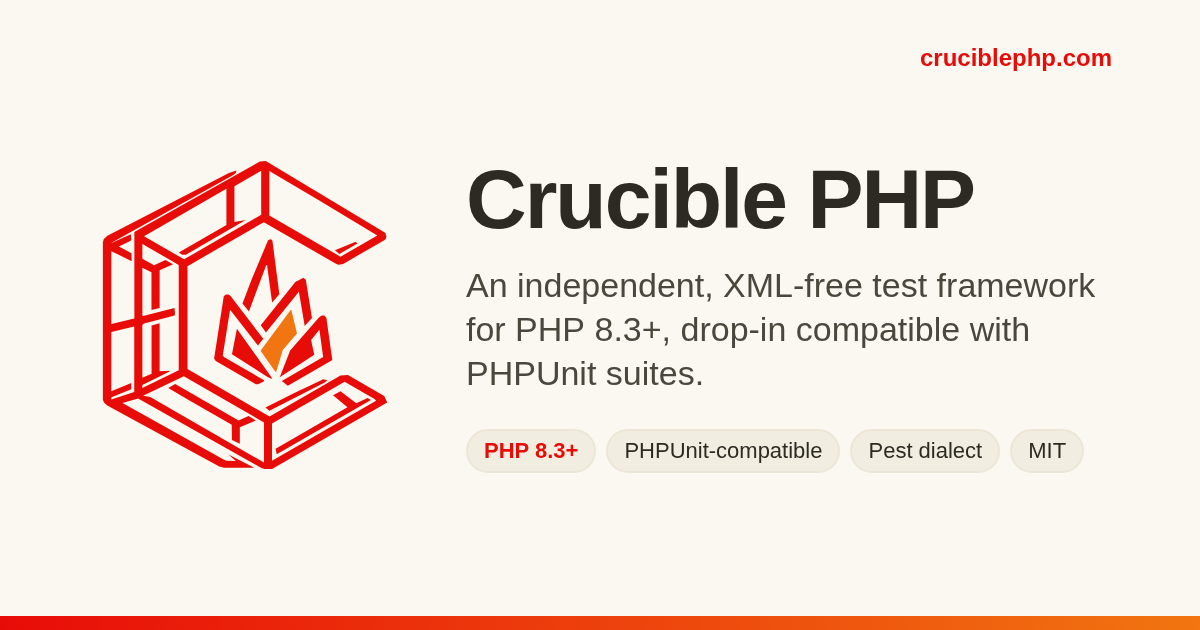
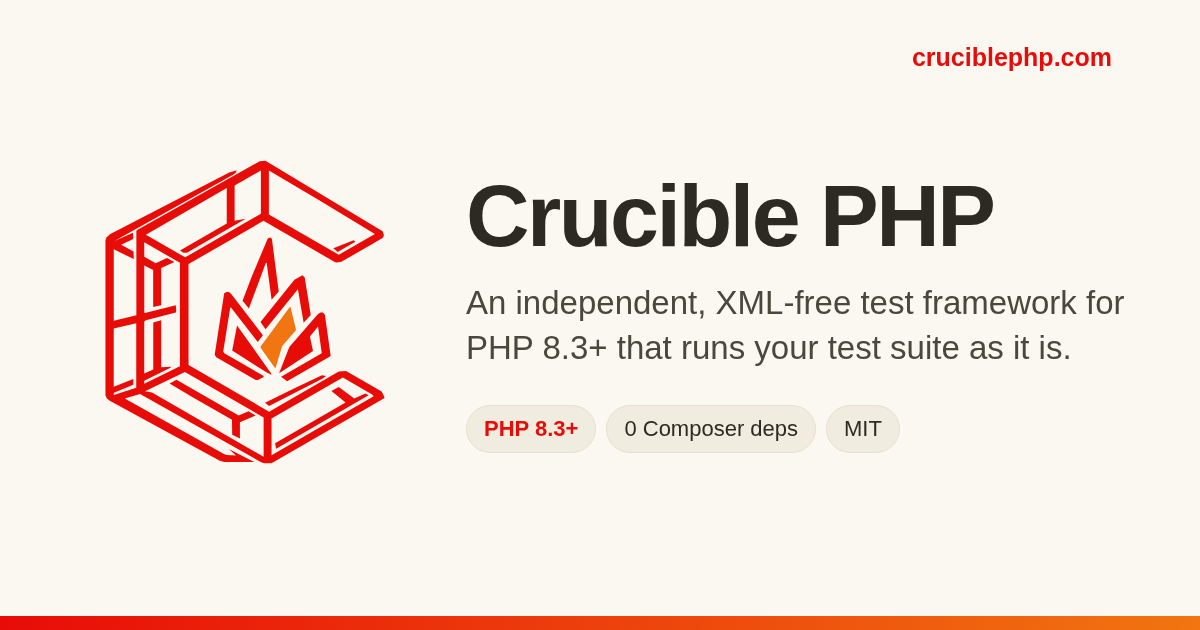
updated content

diff --git a/index.html b/index.html
@@ -30,27 +30,27 @@ try {
 } catch (e) {}
 </script>
 <meta name="color-scheme" content="light dark" />
-<title>Crucible PHP — PHPUnit-compatible test framework for PHP 8.3+</title>
+<title>Crucible PHP — test framework for PHP 8.3+</title>
 <meta name="author" content="Luciano Federico Pereira" />
-<meta name="description" content="Independent PHP 8.3+ test framework that runs PHPUnit and Pest suites unchanged: typed PHP config instead of XML, parallel runs, coverage and mutation testing." />
+<meta name="description" content="Independent PHP 8.3+ test framework that runs your test suite unchanged — Pest files and PHPUnit classes in one run — with typed PHP config instead of XML, parallel runs, coverage and mutation testing." />
 <link rel="canonical" href="https://www.cruciblephp.com/" />
 <meta name="robots" content="index, follow" />
 <meta property="og:type" content="website" />
 <meta property="og:site_name" content="Crucible PHP" />
 <meta property="og:locale" content="en_US" />
 <meta property="og:url" content="https://www.cruciblephp.com/" />
-<meta property="og:title" content="Crucible PHP — PHPUnit-compatible test framework for PHP 8.3+" />
-<meta property="og:description" content="Runs PHPUnit and Pest suites unchanged, with typed PHP config instead of XML, parallel runs, coverage and mutation testing." />
+<meta property="og:title" content="Crucible PHP — test framework for PHP 8.3+" />
+<meta property="og:description" content="Runs your test suite unchanged — Pest files and PHPUnit classes in one run — with typed PHP config instead of XML, parallel runs, coverage and mutation testing." />
 <meta property="og:image" content="https://www.cruciblephp.com/assets/og-image.png" />
 <meta property="og:image:type" content="image/png" />
 <meta property="og:image:width" content="1200" />
 <meta property="og:image:height" content="630" />
-<meta property="og:image:alt" content="Crucible PHP: an independent, XML-free test framework for PHP 8.3+, drop-in compatible with PHPUnit suites." />
+<meta property="og:image:alt" content="Crucible PHP: an independent, XML-free test framework for PHP 8.3+ that runs your test suite as it is." />
 <meta name="twitter:card" content="summary_large_image" />
 <meta name="twitter:image" content="https://www.cruciblephp.com/assets/og-image.png" />
-<meta name="twitter:image:alt" content="Crucible PHP: an independent, XML-free test framework for PHP 8.3+, drop-in compatible with PHPUnit suites." />
-<meta name="twitter:title" content="Crucible PHP — PHPUnit-compatible test framework for PHP 8.3+" />
-<meta name="twitter:description" content="Runs PHPUnit and Pest suites unchanged, with typed PHP config instead of XML, parallel runs, coverage and mutation testing." />
+<meta name="twitter:image:alt" content="Crucible PHP: an independent, XML-free test framework for PHP 8.3+ that runs your test suite as it is." />
+<meta name="twitter:title" content="Crucible PHP — test framework for PHP 8.3+" />
+<meta name="twitter:description" content="Runs your test suite unchanged — Pest files and PHPUnit classes in one run — with typed PHP config instead of XML, parallel runs, coverage and mutation testing." />
 <!-- What search engines read as the software itself: its name, category,
      requirement, price and where to get it. Kept to facts that do not
      change per release, so it never states a stale version. -->
@@ -62,7 +62,7 @@ try {
   "alternateName": "Crucible",
   "url": "https://www.cruciblephp.com/",
   "image": "https://www.cruciblephp.com/assets/og-image.png",
-  "description": "An independent test framework for PHP 8.3+ that runs PHPUnit and Pest suites unchanged, configured in typed PHP instead of XML.",
+  "description": "An independent test framework for PHP 8.3+ that runs your test suite unchanged — Pest files and PHPUnit classes in one run — configured in typed PHP instead of XML.",
   "applicationCategory": "DeveloperApplication",
   "applicationSubCategory": "Test framework",
   "operatingSystem": "Linux, macOS, Windows",
@@ -329,8 +329,8 @@ try {
       <a class="link" href="#faq">FAQ</a>
       <div class="links-external">
         <a class="link link--external i18n" href="docs.html"><span data-i18n-default>Docs</span><span data-locale="es" class="notranslate">Documentación</span><span data-locale="it" class="notranslate">Documentazione</span><svg class="link-external-icon" aria-hidden="true"><use href="#icon-external"/></svg></a>
-        <a class="link link--external i18n" href="changelog.html"><span data-i18n-default>Changelog</span><span data-locale="es" class="notranslate">Cambios</span><span data-locale="it" class="notranslate">Modifiche</span><svg class="link-external-icon" aria-hidden="true"><use href="#icon-external"/></svg></a>
-        <a class="link link--external i18n" href="reports/latest/index.html"><span data-i18n-default>Reports</span><span data-locale="es" class="notranslate">Informes</span><span data-locale="it" class="notranslate">Report</span><svg class="link-external-icon" aria-hidden="true"><use href="#icon-external"/></svg></a>
+        <a class="link link--external link--menu-only i18n" href="changelog.html"><span data-i18n-default>Changelog</span><span data-locale="es" class="notranslate">Cambios</span><span data-locale="it" class="notranslate">Modifiche</span><svg class="link-external-icon" aria-hidden="true"><use href="#icon-external"/></svg></a>
+        <a class="link link--external link--menu-only i18n" href="reports/latest/index.html"><span data-i18n-default>Reports</span><span data-locale="es" class="notranslate">Informes</span><span data-locale="it" class="notranslate">Report</span><svg class="link-external-icon" aria-hidden="true"><use href="#icon-external"/></svg></a>
         <a class="link link--external notranslate" href="https://github.com/cruciblephp/crucible" target="_blank" rel="noopener">GitHub<svg class="link-external-icon" aria-hidden="true"><use href="#icon-external"/></svg></a>
       </div>
     </div>
@@ -388,17 +388,16 @@ try {
         <div class="logo"><svg class="logo-mark" aria-hidden="true"><use href="#icon-crucible"/></svg></div>
         <h1 class="notranslate">Crucible PHP</h1>
         <p class="tagline i18n">
-          <span data-i18n-default>An independent, XML-free test framework for PHP 8.3+ — drop-in compatible
-          with PHPUnit suites, engineered like the best runners of other ecosystems.</span>
-          <span data-locale="es" class="notranslate">Un framework de pruebas independiente y sin XML para PHP 8.3+ — compatible
-          sin cambios con suites de PHPUnit, diseñado como los mejores runners de otros ecosistemas.</span>
-          <span data-locale="it" class="notranslate">Un framework di test indipendente e senza XML per PHP 8.3+ — compatibile
-          senza modifiche con le suite PHPUnit, progettato come i migliori runner di altri ecosistemi.</span>
+          <span data-i18n-default>An independent, XML-free test framework for PHP 8.3+ — runs your test suite
+          as it is, engineered like the best runners of other ecosystems.</span>
+          <span data-locale="es" class="notranslate">Un framework de pruebas independiente y sin XML para PHP 8.3+ — ejecuta tu suite
+          de pruebas tal como está, diseñado como los mejores runners de otros ecosistemas.</span>
+          <span data-locale="it" class="notranslate">Un framework di test indipendente e senza XML per PHP 8.3+ — esegue la tua suite
+          di test così com'è, progettato come i migliori runner di altri ecosistemi.</span>
         </p>
         <div class="badges notranslate">
           <span class="badge">PHP 8.3+</span>
           <span class="badge">0 Composer deps</span>
-          <span class="badge">PHPUnit-compatible</span>
           <span class="badge">code: MIT</span>
         </div>
         <div class="cta">
@@ -420,7 +419,7 @@ try {
 <section id="compare">
   <div class="wrap">
     <div class="eyebrow reveal i18n"><span data-i18n-default>Drop-in</span><span data-locale="es" class="notranslate">Reemplazo directo</span><span data-locale="it" class="notranslate">Sostituto diretto</span></div>
-    <h2 class="reveal i18n"><span data-i18n-default>Your PHPUnit suite, unchanged</span><span data-locale="es" class="notranslate">Tu suite de PHPUnit, sin cambios</span><span data-locale="it" class="notranslate">La tua suite PHPUnit, senza modifiche</span></h2>
+    <h2 class="reveal i18n"><span data-i18n-default>Your test suite, unchanged</span><span data-locale="es" class="notranslate">Tu suite de pruebas, sin cambios</span><span data-locale="it" class="notranslate">La tua suite di test, senza modifiche</span></h2>
     <p class="section-lead reveal i18n">
       <span data-i18n-default>A real Laravel 13 application runs green — factories, <code class="inline">RefreshDatabase</code>,
       Laravel's own constraints, mocks, <code class="inline">--parallel</code> — with the
@@ -574,22 +573,6 @@ OK</pre>
 
     <div class="variant reveal">
       <div class="head">
-        <span class="name notranslate">PHPUnit</span>
-        <span class="desc i18n"><span data-i18n-default>The drop-in one — a suite written for PHPUnit runs unchanged</span><span data-locale="es" class="notranslate">El de reemplazo directo — una suite escrita para PHPUnit se ejecuta sin cambios</span><span data-locale="it" class="notranslate">Quello diretto — una suite scritta per PHPUnit gira senza modifiche</span></span>
-      </div>
-      <div class="body">
-<pre class="notranslate">final class CalculatorTest extends TestCase
-{
-    public function testAddsTwoNumbers(): void
-    {
-        $this-&gt;assertSame(4, 2 + 2);
-    }
-}</pre>
-      </div>
-    </div>
-
-    <div class="variant reveal">
-      <div class="head">
         <span class="name notranslate">Pest</span>
         <span class="desc i18n"><span data-i18n-default>The expressive one — <code class="inline">*.pest.php</code> files run natively</span><span data-locale="es" class="notranslate">El expresivo — los archivos <code class="inline">*.pest.php</code> se ejecutan de forma nativa</span><span data-locale="it" class="notranslate">Quello espressivo — i file <code class="inline">*.pest.php</code> girano in modo nativo</span></span>
       </div>
@@ -607,6 +590,22 @@ describe('expectations', function (): void {
         expect('crucible')-&gt;toBeString()-&gt;toHaveLength(8)-&gt;toStartWith('cru');
     });
 });</pre>
+      </div>
+    </div>
+
+    <div class="variant reveal">
+      <div class="head">
+        <span class="name notranslate">PHPUnit</span>
+        <span class="desc i18n"><span data-i18n-default>The classic one — test classes written for PHPUnit run unchanged</span><span data-locale="es" class="notranslate">El clásico — las clases de prueba escritas para PHPUnit se ejecutan sin cambios</span><span data-locale="it" class="notranslate">Quello classico — le classi di test scritte per PHPUnit girano senza modifiche</span></span>
+      </div>
+      <div class="body">
+<pre class="notranslate">final class CalculatorTest extends TestCase
+{
+    public function testAddsTwoNumbers(): void
+    {
+        $this-&gt;assertSame(4, 2 + 2);
+    }
+}</pre>
       </div>
     </div>
 
@@ -631,12 +630,12 @@ describe('expectations', function (): void {
     <div class="carousel-viewport reveal">
       <div class="carousel" id="use-case-carousel" role="region" aria-label="Use cases, scrollable" tabindex="0">
         <div class="carousel-card">
-          <div class="cc-eyebrow i18n"><span data-i18n-default>Laravel applications</span><span data-locale="es" class="notranslate">Aplicaciones Laravel</span><span data-locale="it" class="notranslate">Applicazioni Laravel</span></div>
-          <p class="i18n"><span data-i18n-default>Factories, <code class="inline">RefreshDatabase</code>, mocks and <code class="inline">--parallel</code>, green on a real Laravel 13 app.</span><span data-locale="es" class="notranslate">Factories, <code class="inline">RefreshDatabase</code>, mocks y <code class="inline">--parallel</code>, en verde sobre una app Laravel 13 real.</span><span data-locale="it" class="notranslate">Factory, <code class="inline">RefreshDatabase</code>, mock e <code class="inline">--parallel</code>, in verde su una vera app Laravel 13.</span></p>
-        </div>
-        <div class="carousel-card">
           <div class="cc-eyebrow i18n"><span data-i18n-default>Pest projects</span><span data-locale="es" class="notranslate">Proyectos Pest</span><span data-locale="it" class="notranslate">Progetti Pest</span></div>
           <p class="i18n"><span data-i18n-default><code class="inline">*.pest.php</code> runs natively, beside PHPUnit classes in the same run.</span><span data-locale="es" class="notranslate"><code class="inline">*.pest.php</code> se ejecuta de forma nativa, junto a clases de PHPUnit en la misma ejecución.</span><span data-locale="it" class="notranslate"><code class="inline">*.pest.php</code> gira in modo nativo, accanto alle classi PHPUnit nella stessa esecuzione.</span></p>
+        </div>
+        <div class="carousel-card">
+          <div class="cc-eyebrow i18n"><span data-i18n-default>Laravel applications</span><span data-locale="es" class="notranslate">Aplicaciones Laravel</span><span data-locale="it" class="notranslate">Applicazioni Laravel</span></div>
+          <p class="i18n"><span data-i18n-default>Factories, <code class="inline">RefreshDatabase</code>, mocks and <code class="inline">--parallel</code>, green on a real Laravel 13 app.</span><span data-locale="es" class="notranslate">Factories, <code class="inline">RefreshDatabase</code>, mocks y <code class="inline">--parallel</code>, en verde sobre una app Laravel 13 real.</span><span data-locale="it" class="notranslate">Factory, <code class="inline">RefreshDatabase</code>, mock e <code class="inline">--parallel</code>, in verde su una vera app Laravel 13.</span></p>
         </div>
         <div class="carousel-card">
           <div class="cc-eyebrow i18n"><span data-i18n-default>PHP and JavaScript</span><span data-locale="es" class="notranslate">PHP y JavaScript</span><span data-locale="it" class="notranslate">PHP e JavaScript</span></div>
@@ -669,7 +668,7 @@ describe('expectations', function (): void {
 
 <section id="how">
   <div class="wrap">
-    <div class="eyebrow reveal i18n"><span data-i18n-default>Migrating from PHPUnit</span><span data-locale="es" class="notranslate">Migrar desde PHPUnit</span><span data-locale="it" class="notranslate">Migrare da PHPUnit</span></div>
+    <div class="eyebrow reveal i18n"><span data-i18n-default>Switching runners</span><span data-locale="es" class="notranslate">Cambiar de runner</span><span data-locale="it" class="notranslate">Cambiare runner</span></div>
     <h2 class="reveal i18n"><span data-i18n-default>How it works</span><span data-locale="es" class="notranslate">Cómo funciona</span><span data-locale="it" class="notranslate">Come funziona</span></h2>
     <p class="section-lead reveal i18n"><span data-i18n-default>Four steps, and the last one is a removal.</span><span data-locale="es" class="notranslate">Cuatro pasos, y el último es quitar algo.</span><span data-locale="it" class="notranslate">Quattro passaggi, e l'ultimo è togliere qualcosa.</span></p>
     <div class="steps">
@@ -814,7 +813,7 @@ return Crucible::configure()
         </button>
         <div class="accordion-panel-wrap" id="faq-1">
           <div class="accordion-panel-inner">
-            <p class="accordion-panel i18n"><span data-i18n-default>No. A suite written for PHPUnit runs unchanged. With the compatibility aliases enabled, <code class="inline">PHPUnit\Framework\*</code> resolves too — which is what makes an existing suite run with <code class="inline">composer remove phpunit/phpunit</code> as the only change.</span><span data-locale="es" class="notranslate">No. Una suite escrita para PHPUnit se ejecuta sin cambios. Con los alias de compatibilidad activados, <code class="inline">PHPUnit\Framework\*</code> también se resuelve — que es lo que permite ejecutar una suite existente con <code class="inline">composer remove phpunit/phpunit</code> como único cambio.</span><span data-locale="it" class="notranslate">No. Una suite scritta per PHPUnit gira senza modifiche. Con gli alias di compatibilità attivi, anche <code class="inline">PHPUnit\Framework\*</code> si risolve — ed è questo che permette a una suite esistente di girare con <code class="inline">composer remove phpunit/phpunit</code> come unica modifica.</span></p>
+            <p class="accordion-panel i18n"><span data-i18n-default>No. The tests stay as they are, whether written for Pest or for PHPUnit. With the compatibility aliases enabled, <code class="inline">PHPUnit\Framework\*</code> resolves too — which is what makes an existing suite run with <code class="inline">composer remove phpunit/phpunit</code> as the only change.</span><span data-locale="es" class="notranslate">No. Las pruebas se quedan como están, escritas para Pest o para PHPUnit. Con los alias de compatibilidad activados, <code class="inline">PHPUnit\Framework\*</code> también se resuelve — que es lo que permite ejecutar una suite existente con <code class="inline">composer remove phpunit/phpunit</code> como único cambio.</span><span data-locale="it" class="notranslate">No. I test restano come sono, scritti per Pest o per PHPUnit. Con gli alias di compatibilità attivi, anche <code class="inline">PHPUnit\Framework\*</code> si risolve — ed è questo che permette a una suite esistente di girare con <code class="inline">composer remove phpunit/phpunit</code> come unica modifica.</span></p>
           </div>
         </div>
       </div>
@@ -888,7 +887,7 @@ return Crucible::configure()
       <a class="i18n" href="docs.html"><span data-i18n-default>Docs</span><span data-locale="es" class="notranslate">Documentación</span><span data-locale="it" class="notranslate">Documentazione</span></a><span class="no-print"> ·</span>
       <a class="i18n" href="changelog.html"><span data-i18n-default>Changelog</span><span data-locale="es" class="notranslate">Cambios</span><span data-locale="it" class="notranslate">Modifiche</span></a><span class="no-print"> ·</span>
       <a class="i18n" href="reports/latest/index.html"><span data-i18n-default>Reports</span><span data-locale="es" class="notranslate">Informes</span><span data-locale="it" class="notranslate">Report</span></a><span class="no-print"> ·</span>
-      <a class="i18n" href="https://ko-fi.com/lucianofedericopereira"><span data-i18n-default>Support</span><span data-locale="es" class="notranslate">Apoyar</span><span data-locale="it" class="notranslate">Sostieni</span></a><span class="no-print"> ·</span>
+      <a class="i18n" href="https://opencollective.com/crucible-free-software"><span data-i18n-default>Support</span><span data-locale="es" class="notranslate">Apoyar</span><span data-locale="it" class="notranslate">Sostieni</span></a><span class="no-print"> ·</span>
       <a class="i18n" href="https://github.com/cruciblephp/crucible/blob/main/LICENSE"><span data-i18n-default>License</span><span data-locale="es" class="notranslate">Licencia</span><span data-locale="it" class="notranslate">Licenza</span></a>
     </p>
     <!-- Not "MIT" alone, as treegen2's footer says: LICENSE reserves the

diff --git a/assets/site.css b/assets/site.css
@@ -316,6 +316,9 @@
     padding-left: 1.125rem; margin-left: 0.125rem;
     border-left: 1px solid var(--border);
   }
+  /* In the hamburger only: the full row has no room for them. */
+  .nav .links a.link--menu-only { display: none; }
+  .nav.is-compact .links a.link--menu-only { display: inline-flex; }
   /* .links-external-toolbar (index.html): the standalone duplicate of the
      block above, shown in the toolbar itself instead of inside #nav-links
      — see the HTML comment next to it for why it exists. A fully separate
@@ -424,6 +427,7 @@
          zero height. Same fix as .nav's own border-bottom above: keep the
          line, just make it invisible until there's something to divide. */
       border: 1px solid transparent; border-top: none;
+      background-clip: padding-box;
       border-radius: 0 0 var(--radius) var(--radius);
       transition: max-height var(--duration-moderate) var(--ease-out-expo),
                   border-color var(--duration-fast) var(--ease-out-expo);
@@ -454,6 +458,7 @@
       display: flex; flex-direction: column; align-items: stretch; gap: 0;
       padding-left: 0; margin-left: 0; border-left: none;
     }
+    .nav .links a.link--menu-only { display: inline-flex; }
   }
 
   /* Same compact layout as the media query above, applied via a class
@@ -505,6 +510,7 @@
        real color here renders as a thin flat line under the nav even while
        "closed". */
     border: 1px solid transparent; border-top: none;
+    background-clip: padding-box;
     border-radius: 0 0 var(--radius) var(--radius);
     transition: max-height var(--duration-moderate) var(--ease-out-expo),
                 border-color var(--duration-fast) var(--ease-out-expo);

diff --git a/changelog.html b/changelog.html
@@ -338,7 +338,7 @@ try {
       <a class="notranslate" href="https://github.com/cruciblephp/crucible">GitHub</a><span class="no-print"> ·</span>
       <a class="i18n" href="docs.html"><span data-i18n-default>Docs</span><span data-locale="es" class="notranslate">Documentación</span><span data-locale="it" class="notranslate">Documentazione</span></a><span class="no-print"> ·</span>
       <a class="i18n" href="index.html"><span data-i18n-default>Home</span><span data-locale="es" class="notranslate">Inicio</span><span data-locale="it" class="notranslate">Home</span></a><span class="no-print"> ·</span>
-      <a class="i18n" href="https://ko-fi.com/lucianofedericopereira"><span data-i18n-default>Support</span><span data-locale="es" class="notranslate">Apoyar</span><span data-locale="it" class="notranslate">Sostieni</span></a><span class="no-print"> ·</span>
+      <a class="i18n" href="https://opencollective.com/crucible-free-software"><span data-i18n-default>Support</span><span data-locale="es" class="notranslate">Apoyar</span><span data-locale="it" class="notranslate">Sostieni</span></a><span class="no-print"> ·</span>
       <a class="i18n" href="https://github.com/cruciblephp/crucible/blob/main/LICENSE"><span data-i18n-default>License</span><span data-locale="es" class="notranslate">Licencia</span><span data-locale="it" class="notranslate">Licenza</span></a>
     </p>
     <!-- Not "MIT" alone, as treegen2's footer says: LICENSE reserves the

diff --git a/docs.html b/docs.html
@@ -51,7 +51,7 @@
     <a href="./">Home</a>
     <a href="changelog.html">Changelog</a>
     <a href="https://github.com/cruciblephp/crucible">GitHub</a>
-    <a href="https://ko-fi.com/lucianofedericopereira">Support</a>
+    <a href="https://opencollective.com/crucible-free-software">Support</a>
   </nav>
 </header>
 

diff --git a/changelog.md b/changelog.md
@@ -2,6 +2,13 @@
 
 Every release, as it ships. RELEASE.md is the full record of what shipped, each entry traced to its decision record.
 
+## v1.1.2 — 2026-10-06
+
+- Fixed `crucible mutate` reporting every mutant of a class as escaped when its file carries an inline test (`#[Check]` or `@crucible`): discovery required the file by path, so the original class loaded before the mutant; a cold worker now loads the mutant in its place
+- Fixed `crucible mutate` stopping at discovery on a Laravel suite with `Class "PHPUnit\Framework\TestCase" not found`: it now loads the compatibility aliases and applies the configuration's bootstrap, ini, env and constants before discovery, as a run does, so feature tests boot on the configuration's env instead of the project's `.env`
+- Fixed Pest files whose `uses()` class extends the real PHPUnit `TestCase`, such as Orchestra Testbench's, under PHPUnit 13.4: its configuration was never set, as 13.4 passes the event emitter where earlier releases took none
+- Added Open Collective as a funding channel
+
 ## v1.1.1 — 2026-09-26
 
 - Fixed type tests and `crucible lint-inline` failing to start PHPStan on Windows, and `crucible flakes`, `compat-check` runs, Vitest suites, the watch loop and Git coverage details opening `/dev/null` there; Windows uses its own null device, `NUL`
